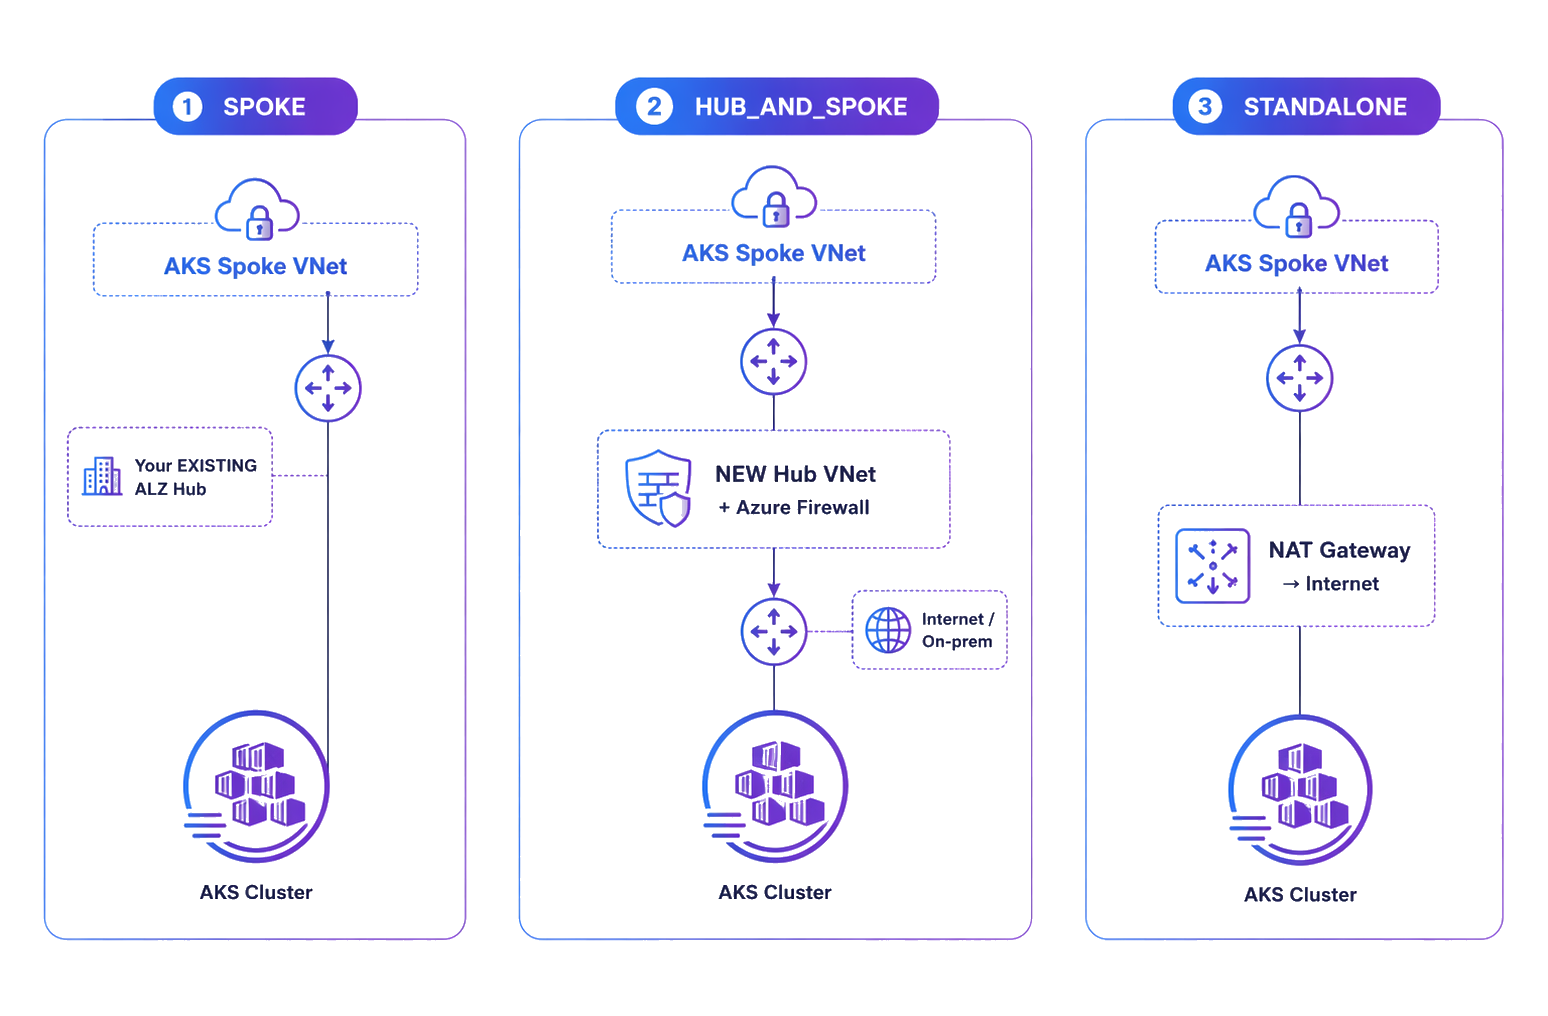
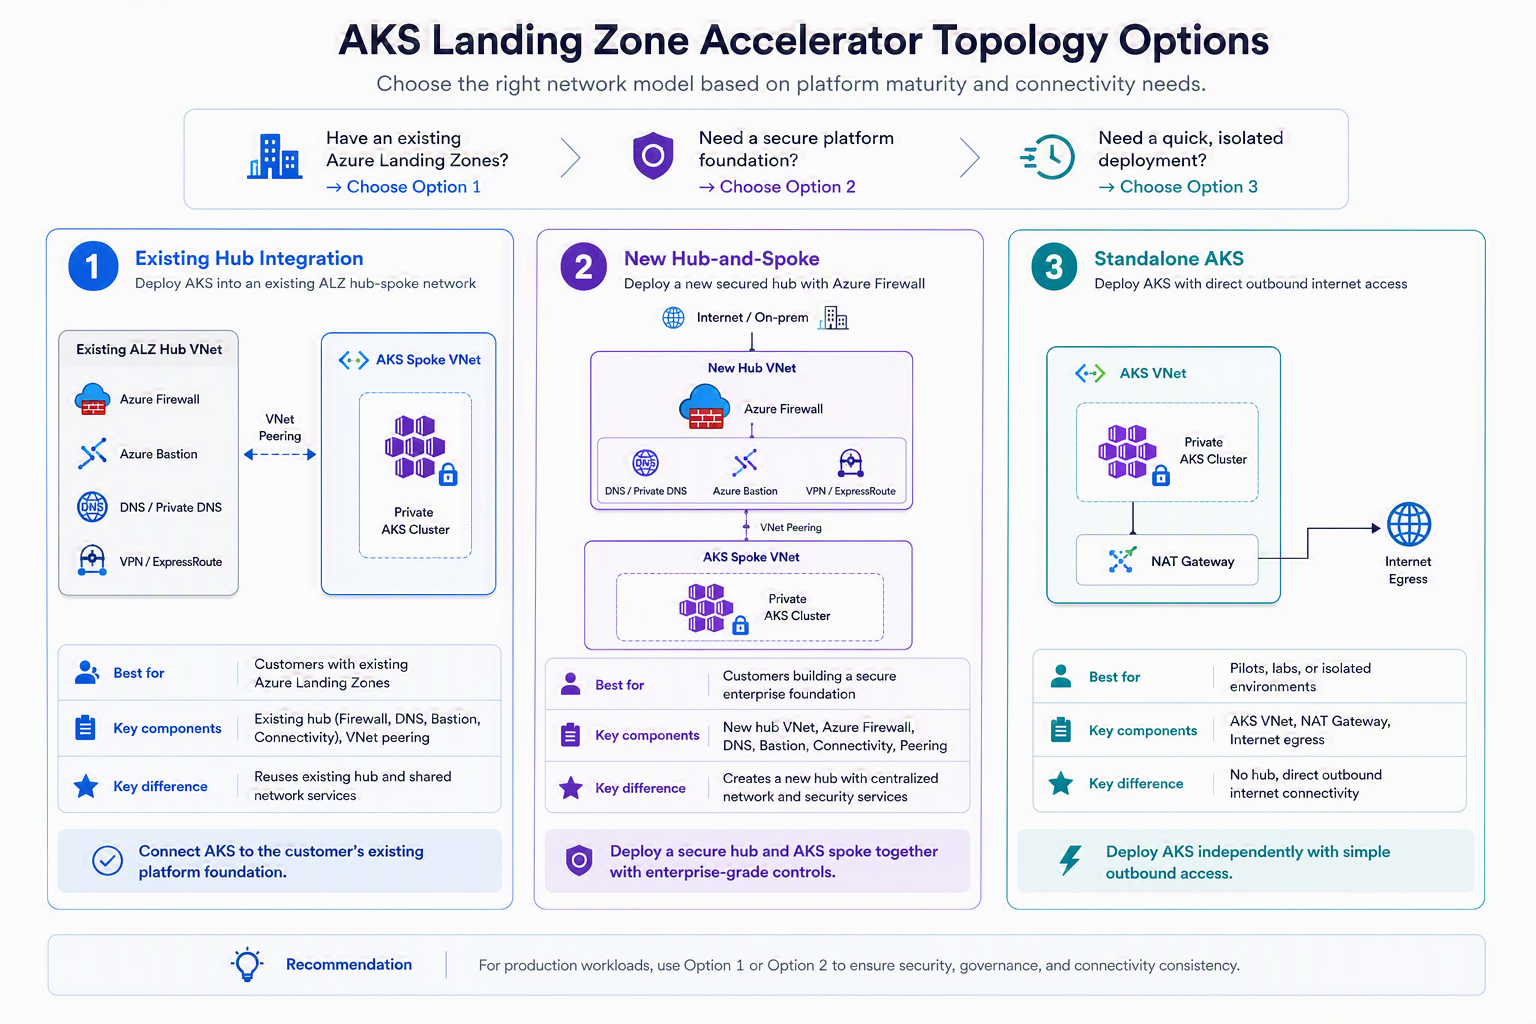
docs: replace topology diagram with clearer Option 1/2/3 version

diff --git a/docs/concepts/topologies.md b/docs/concepts/topologies.md
@@ -4,22 +4,22 @@ The accelerator supports three networking topologies. The wizard asks which one 
 page explains the trade-offs.
 
 <p align="center">
-  <img src="../../assets/topologies.png" alt="Three AKS networking topologies. spoke: the AKS spoke VNet peers to your existing ALZ hub. hub_and_spoke: the accelerator creates a new hub VNet with Azure Firewall that routes to the internet or on-prem. standalone: the AKS spoke VNet egresses directly through a NAT gateway to the internet." width="900"
+  <img src="../../assets/topologies.png" alt="AKS Landing Zone Accelerator topology options. A decision header routes you to the right model: have an existing Azure Landing Zone? Choose Option 1; need a secure platform foundation? Choose Option 2; need a quick, isolated deployment? Choose Option 3. Option 1 — Existing Hub Integration: deploy AKS into an existing ALZ hub-and-spoke network; the private AKS spoke VNet peers to a hub that already provides Azure Firewall, Azure Bastion, DNS/Private DNS, and VPN/ExpressRoute; best for customers with an existing ALZ; key difference is it reuses the existing hub and shared network services. Option 2 — New Hub-and-Spoke: the accelerator creates a new secured hub VNet with Azure Firewall, DNS, Bastion, and connectivity, peered to an AKS spoke VNet with a private cluster, and traffic egresses to Internet/on-prem through the hub; best for customers building a secure enterprise foundation; key difference is it creates a new hub with centralized network and security services. Option 3 — Standalone AKS: deploy AKS with direct outbound internet access via a NAT gateway, no hub; best for pilots, labs, or isolated environments; key difference is no hub and direct outbound connectivity. Recommendation: for production workloads use Option 1 or Option 2 to ensure security, governance, and connectivity consistency." width="900"
        style="background:#ffffff;border-radius:16px;padding:16px;box-shadow:0 6px 24px rgba(0,0,0,.15);">
 </p>
 
-| Topology | What it creates | Best for | Status |
-|---|---|---|---|
-| `standalone` | AKS spoke + NAT gateway egress, no hub | Dev/test, PoCs, isolated subscriptions | ✅ GA (single + multi-region) |
-| `hub_and_spoke` | A **new** hub VNet + Azure Firewall + the spoke peered to it | Greenfield enterprise | ✅ GA (single region) |
-| `spoke` | The AKS spoke peered to an **existing** hub VNet you already own | Brownfield: you already have an ALZ hub | ⚠ Available, not in current validation matrix |
+| Option | Topology | What it creates | Best for | Status |
+|---|---|---|---|---|
+| **Option 1** | `spoke` | The AKS spoke peered to an **existing** hub VNet you already own | Brownfield: you already have an ALZ hub | ⚠ Available, not in current validation matrix |
+| **Option 2** | `hub_and_spoke` | A **new** hub VNet + Azure Firewall + the spoke peered to it | Greenfield enterprise | ✅ GA (single region) |
+| **Option 3** | `standalone` | AKS spoke + NAT gateway egress, no hub | Dev/test, PoCs, isolated subscriptions | ✅ GA (single + multi-region) |
 
-## standalone
+## Option 1 — spoke
 
-No hub. Egress is via a NAT gateway. This is the fastest path and the recommended choice for a
-first run. Ideal when the subscription is isolated and you don't need centralized inspection.
+Peer the AKS spoke into a hub VNet you already manage (a typical brownfield ALZ). You supply the
+existing hub VNet resource ID during the wizard.
 
-## hub_and_spoke
+## Option 2 — hub_and_spoke
 
 The accelerator provisions a brand-new hub VNet with **Azure Firewall** plus the AKS spoke peered
 to it. Choose this for greenfield enterprise deployments where the accelerator owns the whole
@@ -29,16 +29,16 @@ network. You provide the hub address space and firewall SKU during the wizard.
     Azure Firewall (Standard) runs continuously. Tear the environment down when you're done
     evaluating to avoid ongoing charges.
 
-## spoke
+## Option 3 — standalone
 
-Peer the AKS spoke into a hub VNet you already manage (a typical brownfield ALZ). You supply the
-existing hub VNet resource ID during the wizard.
+No hub. Egress is via a NAT gateway. This is the fastest path and the recommended choice for a
+first run. Ideal when the subscription is isolated and you don't need centralized inspection.
 
 ## Ingress options
 
 Topology controls egress and peering; ingress is a separate set of toggles that coexist:
 
-| Option | Purpose |
+| Toggle | Purpose |
 |---|---|
 | `enable_app_gateway` | Application Gateway WAF v2 — L7 ingress with a Web Application Firewall |
 | `enable_agc` | Application Gateway for Containers (ALB) — provisions the delegated subnet + NSG; the in-cluster ALB Controller manages the data plane |
